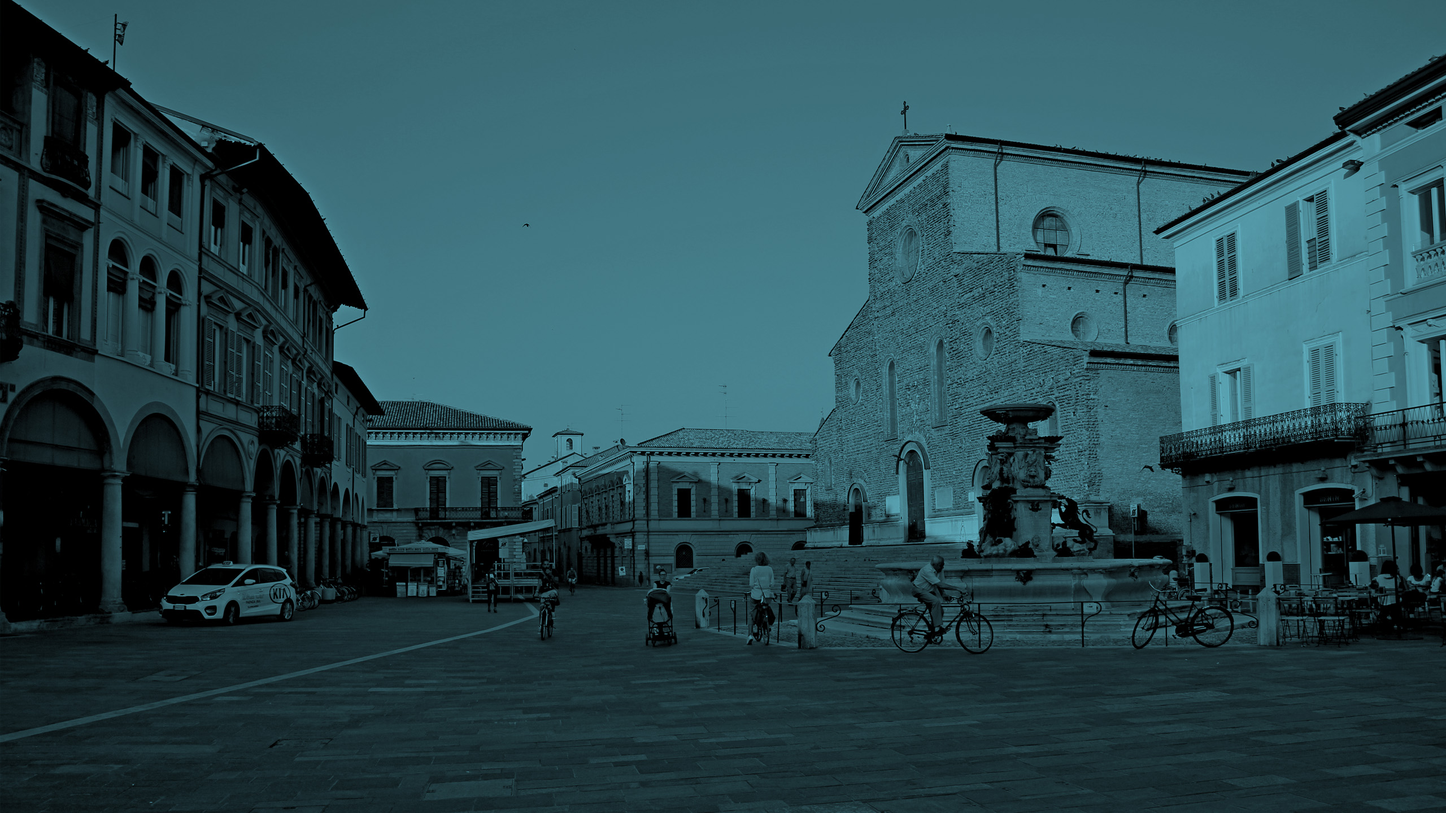
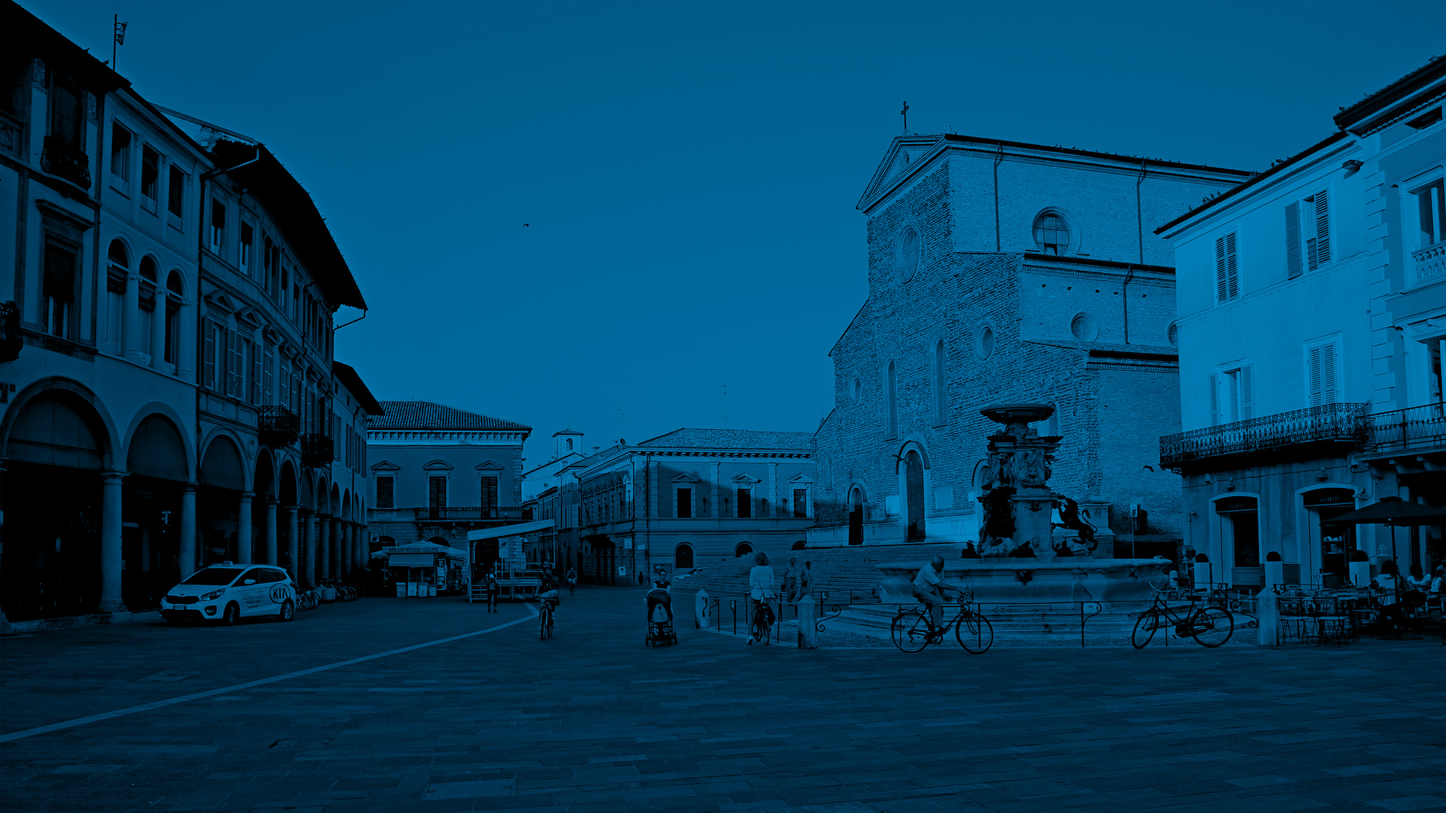
Sync with upstream: 4111fed73690b2cf5f707c451cbe13bc603112c5

diff --git a/themes/grusp_conf/source/assets/css/defaults.sass b/themes/grusp_conf/source/assets/css/defaults.sass
@@ -1,7 +1,7 @@
 //- Colori principali
-$main-color: #5ab5c9
-$main-color_hue-medium: #9dd0de
-$main-color_hue-light: #c7e4ef
+$main-color: #007AC6
+$main-color_hue-medium: #5FB4E8
+$main-color_hue-light: #A7CFE8
 
 $main-text-color: #000
 $main-text-color_hue-medium: rgba(0, 0, 0, .4)
